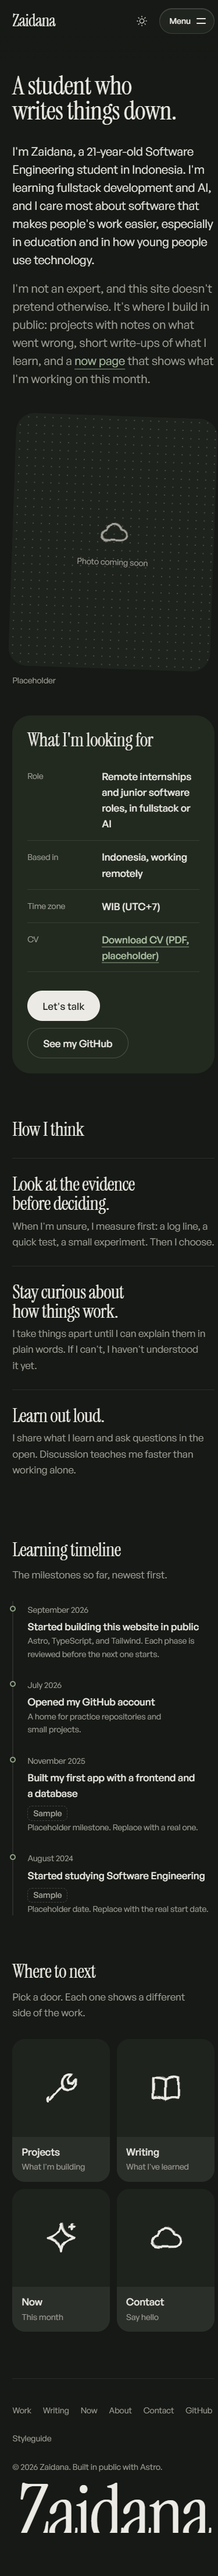
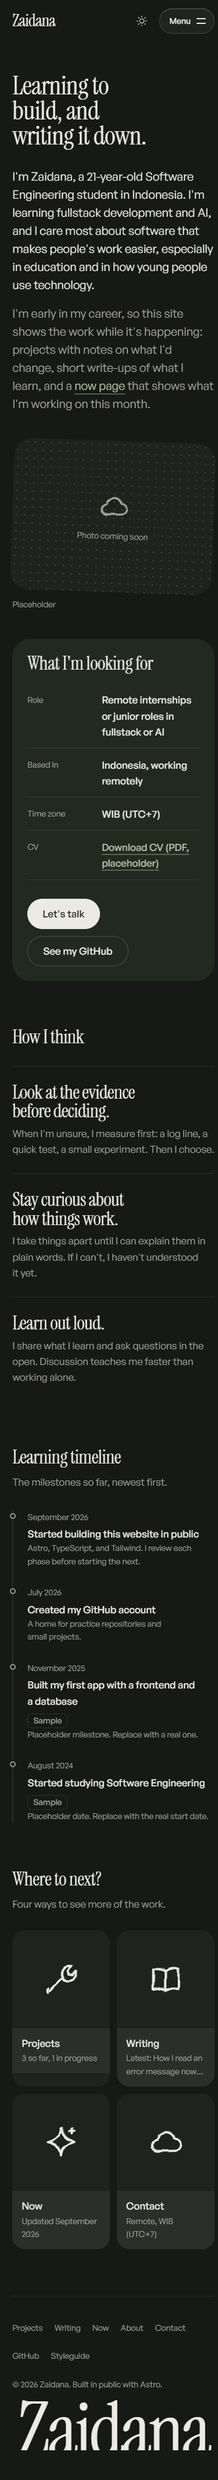
docs: phase 2 progress, keywords, architecture, and screenshots

diff --git a/ARCHITECTURE.md b/ARCHITECTURE.md
@@ -1,7 +1,7 @@
 # ARCHITECTURE — Zaidana Studio
 
 > **Bagaimana** situs ini dibangun. *Apa* dan *kenapa* ada di `PRD.md`. Dokumen ini dirawat Claude Code dan diperbarui di akhir setiap fase.
-> Terakhir diperbarui: Fase 1 + revisi motion & palet (2026-09-25).
+> Terakhir diperbarui: Fase 2 (2026-09-25).
 
 ## 1. Stack
 
@@ -31,12 +31,15 @@
 │   ├── content/            # SEMUA konten Markdown (lihat §5)
 │   │   ├── projects/
 │   │   ├── writing/
-│   │   └── now/
+│   │   ├── now/
+│   │   └── timeline.yaml # milestones /about (file() loader)
 │   ├── lib/                # TypeScript murni, tanpa UI
 │   │   ├── content.ts      # SATU-SATUNYA cara halaman membaca konten (guard sample + sort)
 │   │   ├── contrast.ts     # parser token + rumus kontras (dipakai /styleguide & script)
 │   │   ├── format.ts       # format tanggal
-│   │   └── site.ts         # nama situs, deskripsi, navigasi
+│   │   ├── hero.ts         # card untuk hero stack (dari collections + card "This site")
+│   │   ├── motion.ts       # animasi transisi <main> antar halaman
+│   │   └── site.ts         # nama situs, nav, `profile` (fakta yang boleh diklaim)
 │   ├── styles/
 │   │   ├── tokens.css      # design tokens (sumber tunggal)
 │   │   └── global.css      # import Tailwind + mapping token → utility + base + komponen global
@@ -47,11 +50,15 @@
 │   │   ├── ThemeToggle.astro
 │   │   ├── SiteHeader.astro  # nav pil + menu mobile
 │   │   ├── SiteFooter.astro
-│   │   ├── ui/               # elemen kecil: Button, StatusChip, SampleBadge, SketchIcon
-│   │   └── cards/            # ProjectCard (craft), WritingCard (notch), CalmCard (letters)
+│   │   ├── WhereNext.astro   # 4 pintu navigasi (daylight)
+│   │   ├── ui/               # Button, StatusChip, SampleBadge, SketchIcon, SketchFilter, Sticker, ProgressiveFade
+│   │   ├── cards/            # ProjectCard + ProjectArt (craft), WritingCard (notch), CalmCard (letters)
+│   │   └── home/             # Hero, HeroStack, SkyBackdrop, StoryReveal
 │   └── pages/              # routing berbasis file
-│       ├── index.astro     # placeholder sampai Fase 2
+│       ├── index.astro     # Home
+│       ├── about.astro
 │       └── styleguide.astro
+├── public/cv-placeholder.pdf  # PRD F7, diganti CV asli
 └── docs/                   # progress, keywords, referensi, screenshots per fase
 ```
 
@@ -77,6 +84,10 @@ pages/*.astro  →  components/cards/*  →  HTML statis
 Paralel dengan itu, `integrations/sample-report.ts` membaca frontmatter langsung dari disk saat `astro:build:done` dan mencetak daftar file sample yang masih ada (PRD F3).
 
 **Jangan** memanggil `getCollection()` langsung dari halaman: guard sample bisa terlewat.
+
+**Fakta tentang Zaidana** (peran, negara, zona waktu, GitHub, CV) hanya diambil dari `profile` di `src/lib/site.ts`. Klaim baru harus ditambahkan di sana dulu (sumber: PRD §1/§4 atau jawaban user).
+
+**Hero stack:** `getHeroCards()` mengambil proyek teratas, entri /now terbaru, dan tulisan terbaru, lalu selalu menambahkan card asli "This site". Kata kerja kalimat hero mengikuti status proyek (idea → planning, building → building, shipped → improving). Field opsional `phrase` di proyek/tulisan dipakai untuk kalimat, dengan fallback judul berkutip. Kalau card depan adalah sample, kalimatnya ikut berlabel Sample.
 
 ## 4. Design tokens
 
@@ -204,7 +215,12 @@ Isi artikel…
 
 ## 6b. Motion
 
-Semua gerakan dipicu user, kecuali dua momen yang diorkestrasi (hero card stack dan footer, dibuat di Fase 2). Durasi 150–400ms. `prefers-reduced-motion` membuat semua `--dur-*` bernilai 0ms, transform hover/press dimatikan, dan ClientRouter menonaktifkan transisi halaman.
+Semua gerakan dipicu user, kecuali dua momen yang diorkestrasi dan satu reveal yang digerakkan scroll:
+1. **Pembuka (Home):** kata-kata hero naik pelan (3 blok), lalu card "dibagikan" ke tumpukan satu per satu (`HeroStack`, `@media (scripting: enabled)`).
+2. **Penutup (Home):** card kecil berhamburan dari tengah **sekali** saat section penutup pertama kali terlihat (IntersectionObserver). Setelah itu hanya bergeser sedikit mengikuti pointer, dan hanya saat terlihat.
+3. **Scroll reveal (Home, satu paragraf):** CSS `animation-timeline: view()`, tanpa JS, penuh tinta sebelum posisi baca.
+
+Card stack **tidak pernah autoplay**. Durasi 150–400ms. `prefers-reduced-motion` membuat semua `--dur-*` bernilai 0ms, transform hover/press dimatikan, dan ClientRouter menonaktifkan transisi halaman.
 
 | Token | Nilai | Dipakai untuk |
 |---|---|---|
@@ -266,3 +282,8 @@ Semua gerakan dipicu user, kecuali dua momen yang diorkestrasi (hero card stack 
 | 009 | TS 6: `"types": ["node"]` di tsconfig | TS 6 tidak lagi memuat `@types/*` otomatis; dibutuhkan untuk `integrations/` dan `scripts/` | — |
 | 010 | Easing spring via CSS `linear()` | Terasa fisik dan halus tanpa library JS; tetap CSS murni dan ikut reduced motion | Library animasi (Motion/GSAP), menambah JS |
 | 011 | Pil nav aktif transparan + View Transition bernama | Pil bisa bergeser antar halaman tanpa menutupi label | Pil hitam solid (label tertutup saat bergeser) |
+| 012 | Card hero dari collections + 1 card selalu asli | Hero tidak pernah kosong di production, dan sample tetap mengikuti guard | Card hardcoded di komponen |
+| 013 | Kalimat hero dari status + `phrase` + label Sample | Tidak mengklaim ide sebagai "building", grammar tidak rusak oleh judul | Menempel judul mentah |
+| 014 | Langit dari SVG filter (bukan gambar) | Orisinal, ringan, otomatis ikut tema lewat token | Foto/ilustrasi awan (aset berlisensi, berat) |
+| 015 | Scroll reveal dengan CSS scroll-driven animations | Nol JS, mudah dimatikan, fallback teks penuh | GSAP ScrollTrigger |
+| 016 | Timeline sebagai collection `file()` YAML | Satu file mudah diedit, ikut guard sample | Array di halaman (lolos dari guard) |

diff --git a/docs/progress.md b/docs/progress.md
@@ -8,7 +8,7 @@
 |---|---|---|
 | 0 | Review & rencana | ✅ Selesai (Gate 0, 2026-09-25) |
 | 1 | Fondasi | ✅ Selesai (Gate 1, 2026-09-25) |
-| 2 | Home + About | 🔄 Berjalan |
+| 2 | Home + About | 🟡 Selesai, menunggu "lanjut" (Gate 2) |
 | 3 | Halaman lain | ⏳ |
 | 4 | Copywriting | ⏳ |
 | 5 | 3 proyek pertama | ⏳ |
@@ -24,6 +24,10 @@
 - 2026-09-25 — Font heading: **Instrument Serif**. Body: General Sans. Kode: JetBrains Mono.
 - 2026-09-25 — Foto diri: **ada, hanya di About**, bingkai persegi bersudut. Placeholder dulu.
 - 2026-09-25 — Domain: **ditunda**, pakai `*.netlify.app` dulu.
+- 2026-09-25 — Hero: konsep **A (card stack) + baris logistik** dari C.
+- 2026-09-25 — Zona waktu **WIB (UTC+7)**. Jam/minggu & tanggal mulai **tidak ditampilkan** (belum pasti).
+- 2026-09-25 — Bukti non-sample di layar pertama: **github.com/build-zaidana**.
+- 2026-09-25 — Nav memakai "Projects" (bukan "Work") supaya konsisten dengan URL & tombol.
 - 2026-09-25 — 5 usulan review PRD disetujui: sample dikecualikan dari production (flag `SHOW_SAMPLES`), bukti non-sample di layar pertama, logistik remote, analytics gratis tanpa cookie (F8), target 2 tulisan/bulan.
 
 ## Log
@@ -111,4 +115,40 @@ User: animasi terasa kaku di semua bagian (tombol, card, ganti tema, pindah hala
 - 🔑 Tema menyebar dari tombol — ::view-transition-new(root) · element.animate() pseudoElement · view-transition-name
 - 🔑 Header diam, pil aktif bergeser — astro transition:name · astro transition:animate · ::view-transition-group()
 - 🔑 Hover tidak nyangkut di HP — @media (hover: hover) · clip-path inset() transition
+
+### Fase 2 — Home + About (2026-09-25)
+**Selesai:**
+- 3 wireframe hero (`docs/wireframes/hero-concepts.html`, screenshot di `docs/screenshots/fase-2/hero-concept-*.png`). User memilih A + logistik.
+- **Home:** hero (headline, kalimat yang berganti sesuai card depan, CTA, logistik, link GitHub asli) + card stack 3D yang bisa di-swipe/tombol/keyboard di atas langit (awan halftone siang / bintang malam) + stiker "Open to remote roles"; paragraf cerita dengan scroll reveal (satu-satunya); proyek dengan progressive blur; tulisan (asimetris, judul menempel); "Currently" (card calm); penutup: card berhamburan sekali + CTA besar + wordmark raksasa di footer.
+- **About:** cerita + foto placeholder (bingkai persegi), card "What I'm looking for" (peran, lokasi, zona waktu, CV placeholder), "How I think" (3 prinsip PRD §4, baris editorial), learning timeline (2 entri asli + 2 sample), "Where to next?" dengan petunjuk dari konten asli.
+- Collection baru `timeline` (YAML, `file()` loader). Laporan sample ikut memindai YAML/JSON.
+- Kritik `copy-reviewer` & `design-critic` (7/10) → semua temuan Tinggi + Sedang diperbaiki: kalimat hero tidak lagi mengklaim sample sebagai fakta (label Sample + kata kerja dari status proyek + frasa pendek), fokus Fullstack + AI di layar pertama, judul card mobile tidak terpotong, langit malam lebih terlihat, blur mobile hanya menutupi ilustrasi, CTA utama solid, pintu "Where to next?" berisi konten asli.
+
+- `code-tidy`: 4 file dirapikan, identik per pixel. Temuannya membuka 2 bug nyata (overlay blur menghalangi klik, rasio foto desktop) → diperbaiki dan diverifikasi.
+- Lighthouse mobile (build production + sample): `/` dan `/about` = A11y 100 · Best Practices 100 · SEO 100 · Agentic 100 (setelah card stack diganti `<div role="group">`; `role` itu tidak sah di `<article>`). Trace Home Slow 4G + CPU 4×: LCP 1.73 s, CLS 0.
+
+**Keputusan:**
+- 🔑 Card hero diambil dari collections + satu card yang selalu asli ("This site") — astro content collections · getCollection · progressive enhancement
+- 🔑 Card stack tanpa autoplay, swipe/tombol/keyboard, card belakang `inert` — pointer events · setPointerCapture · inert attribute · aria-roledescription carousel
+- 🔑 Kalimat hero diumumkan sopan ke screen reader — aria-live polite · wcag 4.1.3 status messages
+- 🔑 Langit orisinal tanpa gambar — svg feTurbulence · feColorMatrix · svg mask · seeded PRNG mulberry32
+- 🔑 Scroll reveal tanpa JS — animation-timeline view() · view-timeline-name · animation-range · @supports
+- 🔑 Penutup sekali jalan, drift hanya saat terlihat — IntersectionObserver · requestAnimationFrame · @media (scripting: enabled)
+- 🔑 Progressive blur — backdrop-filter · mask-image linear-gradient · pointer-events none
+- 🔑 Stiker teks melingkar — svg textPath · textLength
+- 🔑 Timeline dari satu file data — astro file() loader · yaml
+
+**Tertunda:**
+- Kartu "This site" menaut ke profil GitHub; ganti ke repo situs kalau repo ini dipublikasikan.
+- Copy masih draf → Fase 4 (nada dinilai sudah baik oleh `copy-reviewer`; sisa poin minor dicatat di sana).
+- Di production (tanpa sample) Home hanya berisi hero + cerita + penutup sampai konten asli ada (Fase 5).
+- Newsletter (Buttondown) di Home → Fase 3 bersama form kontak.
+- `/projects`, `/writing`, `/now`, `/contact` masih 404 → Fase 3.
+- Performa: CSS render-blocking + ukuran DOM (span per kata di story, bintang di langit) → evaluasi di Fase 6.
+- Keputusan user: apakah card "This site" menyebut bahwa situs dibangun bersama AI coding assistant (usulan `copy-reviewer`).
+
+**Catatan untuk fase berikutnya:**
+- Halaman detail proyek: callout beranotasi (lovi) + format Problem → Approach → Result → Learnings.
+- Pil nav aktif sudah siap bergeser saat halaman Projects/Writing/Now ada.
+- Tambahkan field `phrase` di proyek/tulisan asli supaya kalimat hero tetap enak dibaca.
 

diff --git a/docs/keywords.md b/docs/keywords.md
@@ -29,6 +29,9 @@
 | `astro:page-load` | Astro | ThemeToggle, SiteHeader | 1 |
 | `astro scoped styles :global()` | Astro | cards, styleguide | 1 |
 | `vite ?raw import` | Astro / Vite | styleguide.astro (tokens.css?raw) | 1 |
+| `astro file() loader` | Astro | src/content.config.ts (timeline) | 2 |
+| `set:text` | Astro | HeroStack (mini code) | 2 |
+| `Astro.slots.has` | Astro | ProgressiveFade, CalmCard | 2 |
 
 ## Tailwind / CSS
 
@@ -50,6 +53,13 @@
 | `backdrop-filter` | CSS | global.css (.glass) | 1 |
 | `box-decoration-break` | CSS | WritingCard (underline per baris) | 1 |
 | `css clamp()` | CSS | tokens.css (text-step-3..5) | 1 |
+| `view-timeline-name` | CSS | StoryReveal | 2 |
+| `animation-range` | CSS | StoryReveal | 2 |
+| `@media (scripting: enabled)` | CSS | HeroStack deal-in, SiteFooter scatter | 2 |
+| `-webkit-line-clamp` | CSS | HeroStack card text, WhereNext hints | 2 |
+| `transform-style preserve-3d` | CSS | HeroStack deck | 2 |
+| `touch-action pan-y` | CSS | HeroStack (swipe vs scroll) | 2 |
+| `mask-image linear-gradient` | CSS | ProgressiveFade | 2 |
 
 ## Design / Typography
 
@@ -62,6 +72,10 @@
 | `text-wrap balance` | Typography | global.css (h1–h3) | 1 |
 | `svg feTurbulence` | Illustration | SketchFilter.astro | 1 |
 | `feDisplacementMap` | Illustration | SketchFilter.astro | 1 |
+| `svg textPath` | Illustration | Sticker | 2 |
+| `svg feColorMatrix` | Illustration | SkyBackdrop (clouds) | 2 |
+| `svg mask halftone` | Illustration | SkyBackdrop | 2 |
+| `seeded PRNG mulberry32` | Illustration | SkyBackdrop (stars) | 2 |
 
 ## Accessibility
 
@@ -79,6 +93,10 @@
 | `disclosure pattern aria-expanded` | A11y | SiteHeader (menu mobile) | 1 |
 | `:focus-visible` | A11y | global.css | 1 |
 | `wcag 2.5.5 target size` | A11y | nav, tombol 44px | 1 |
+| `inert attribute` | A11y | HeroStack (back cards) | 2 |
+| `aria-live polite` | A11y | Hero phrase | 2 |
+| `wcag 4.1.3 status messages` | A11y | Hero phrase | 2 |
+| `sr-only opens in a new tab` | A11y | Hero proof link | 2 |
 
 ## Animation
 
@@ -99,6 +117,10 @@
 | `astro transition:animate` | Astro | SiteHeader (none), BaseLayout (custom) | 1 |
 | `TransitionDirectionalAnimations` | Astro | src/lib/motion.ts | 1 |
 | `::view-transition-group()` | Animation | global.css (nav-indicator) | 1 |
+| `setPointerCapture` | Animation / JS | HeroStack drag | 2 |
+| `IntersectionObserver` | Animation / JS | SiteFooter scatter | 2 |
+| `requestAnimationFrame` | Animation / JS | SiteFooter pointer drift | 2 |
+| `depth of field blur opacity` | Animation | SiteFooter floaters | 2 |
 
 ## Performance / SEO
 
